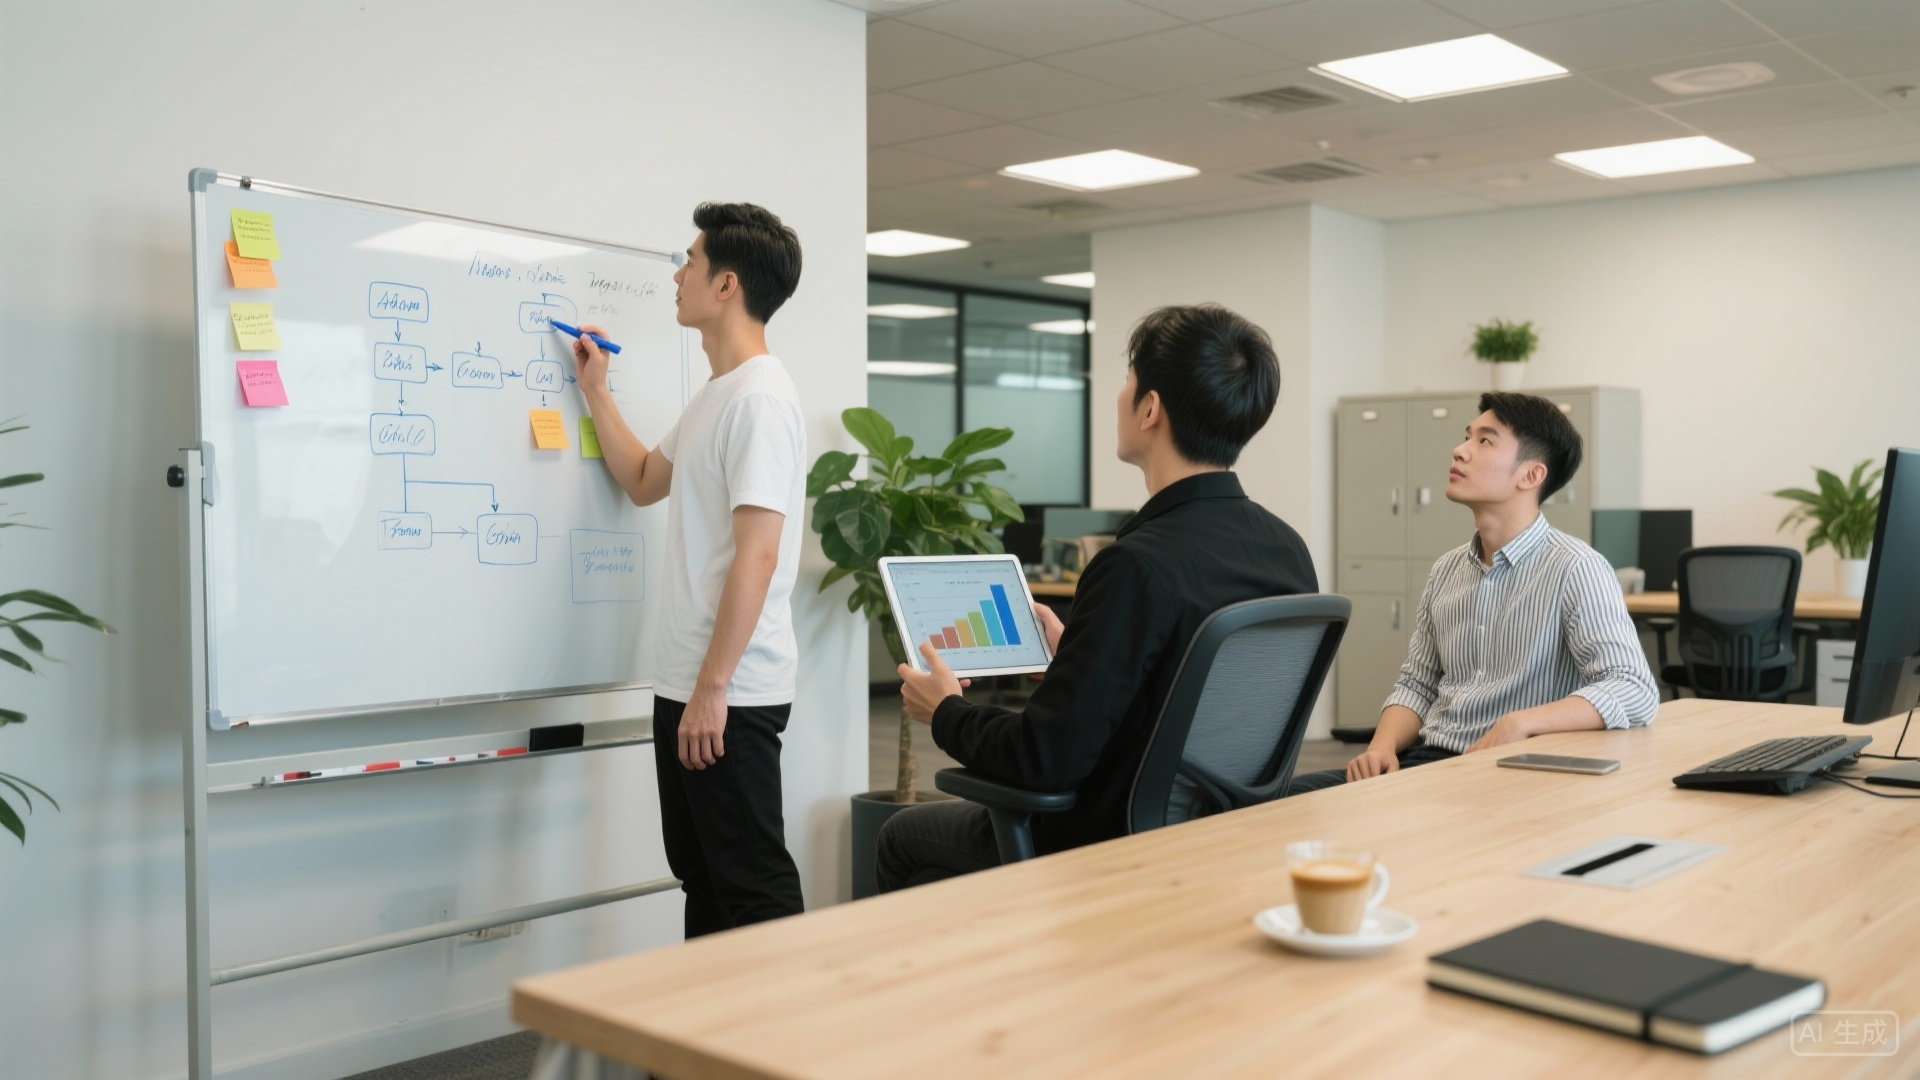
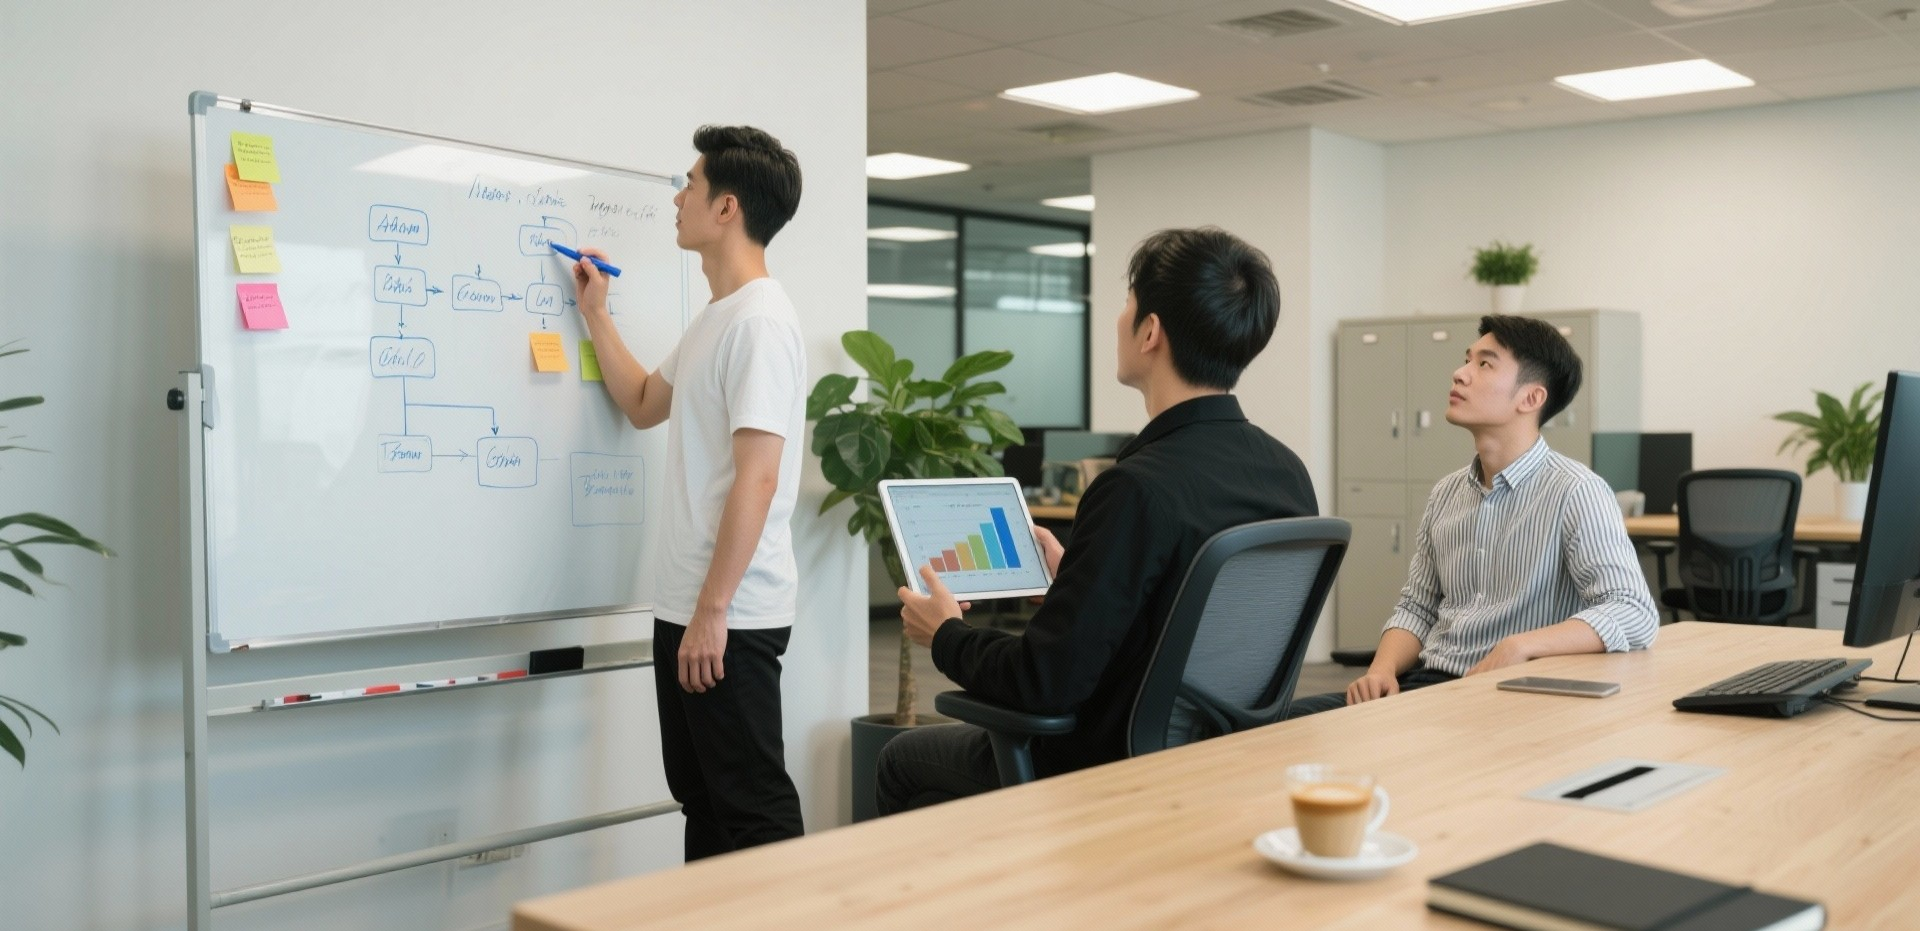
feat: 他们会回答您的问题样式

diff --git a/app/[lang]/contact/ContactCategoryCard.tsx b/app/[lang]/contact/ContactCategoryCard.tsx
@@ -1,0 +1,210 @@
+"use client";
+
+import Text from "@/app/components/Text";
+import { FaEnvelope, FaPhone, FaUser } from "react-icons/fa";
+import { HiUsers, HiCode, HiCollection, HiQuestionMarkCircle } from "react-icons/hi";
+import { HiHandRaised } from "react-icons/hi2";
+import toast from "react-hot-toast";
+
+interface ContactCategory {
+  id: string;
+  title: string;
+  description: string;
+  icon: string;
+  contact: {
+    name: string;
+    role: string;
+    email: string;
+    phone: string;
+    expertise: string[];
+  };
+}
+
+interface ContactCategoryCardProps {
+  category: ContactCategory;
+}
+
+const ContactCategoryCard: React.FC<ContactCategoryCardProps> = ({ category }) => {
+  // 图标映射 - 使用更友好的圆形背景设计
+  const getIcon = (iconName: string) => {
+    const iconSize = 18;
+    const iconElement = (() => {
+      switch (iconName) {
+        case "FaUsers":
+          return <HiUsers size={iconSize} className="text-white" />;
+        case "FaHandshake":
+          return <HiHandRaised size={iconSize} className="text-white" />;
+        case "FaCode":
+          return <HiCode size={iconSize} className="text-white" />;
+        case "FaProjectDiagram":
+          return <HiCollection size={iconSize} className="text-white" />;
+        case "FaQuestionCircle":
+          return <HiQuestionMarkCircle size={iconSize} className="text-white" />;
+        default:
+          return <HiQuestionMarkCircle size={iconSize} className="text-white" />;
+      }
+    })();
+
+    // 根据不同图标类型使用不同的背景色
+    const getBackgroundColor = () => {
+      switch (iconName) {
+        case "FaUsers":
+          return "bg-blue-500";
+        case "FaHandshake":
+          return "bg-green-500";
+        case "FaCode":
+          return "bg-purple-500";
+        case "FaProjectDiagram":
+          return "bg-orange-500";
+        case "FaQuestionCircle":
+          return "bg-indigo-500";
+        default:
+          return "bg-gray-500";
+      }
+    };
+
+    return (
+      <div className={`w-10 h-10 rounded-full ${getBackgroundColor()} flex items-center justify-center shadow-md group-hover:shadow-lg transition-all duration-300`}>
+        {iconElement}
+      </div>
+    );
+  };
+
+  const handleEmailClick = (email: string) => {
+    if (
+      /Android|webOS|iPhone|iPad|iPod|BlackBerry|IEMobile|Opera Mini/i.test(
+        navigator.userAgent
+      )
+    ) {
+      window.location.href = `mailto:${email}`;
+    } else {
+      navigator.clipboard
+        .writeText(email)
+        .then(() => {
+          toast.success(`邮箱已复制到剪贴板: ${email}`);
+        })
+        .catch((err) => {
+          toast.error("复制邮箱失败");
+        });
+    }
+  };
+
+  const handlePhoneClick = (phone: string) => {
+    if (
+      /Android|webOS|iPhone|iPad|iPod|BlackBerry|IEMobile|Opera Mini/i.test(
+        navigator.userAgent
+      )
+    ) {
+      window.location.href = `tel:${phone}`;
+    } else {
+      navigator.clipboard
+        .writeText(phone)
+        .then(() => {
+          toast.success(`电话号码已复制到剪贴板: ${phone}`);
+        })
+        .catch((err) => {
+          toast.error("复制电话号码失败");
+        });
+    }
+  };
+
+  return (
+    <div className="bg-white rounded-xl shadow-lg p-6 hover:shadow-xl transition-all duration-300 border border-gray-100 hover:border-gray-300 group">
+      {/* 类别标题部分 */}
+      <div className="flex items-start mb-4">
+        <div className="mr-3 flex-shrink-0 group-hover:scale-105 transition-transform duration-300">
+          {getIcon(category.icon)}
+        </div>
+        <div className="flex-1 min-w-0">
+          <div className="mb-1">
+            <Text bold small color="black">
+              {category.title}
+            </Text>
+          </div>
+          <div className="leading-relaxed">
+            <Text extrasmall color="gray">
+              {category.description}
+            </Text>
+          </div>
+        </div>
+      </div>
+
+      {/* 联系人信息部分 */}
+      <div className="border-t border-gray-200 pt-3">
+        <div className="flex items-start mb-3">
+          <FaUser className="text-customRed mr-2 mt-0.5 flex-shrink-0" size="14px" />
+          <div className="flex-1 min-w-0">
+            <div className="mb-0.5">
+              <Text bold extrasmall color="black">
+                {category.contact.name}
+              </Text>
+            </div>
+            <Text extrasmall color="gray">
+              {category.contact.role}
+            </Text>
+          </div>
+        </div>
+
+        {/* 联系方式 */}
+        <div className="space-y-2 mb-3">
+          <div 
+            className="flex items-center cursor-pointer hover:bg-gray-50 p-1.5 rounded-md transition-all duration-200 group/contact"
+            onClick={() => handleEmailClick(category.contact.email)}
+          >
+            <FaEnvelope className="text-customRed mr-2 flex-shrink-0 group-hover/contact:scale-110 transition-transform duration-200" size="12px" />
+            <div className="group-hover/contact:text-customRed transition-colors duration-200 truncate">
+              <Text extrasmall color="black">
+                {category.contact.email}
+              </Text>
+            </div>
+          </div>
+          <div 
+            className="flex items-center cursor-pointer hover:bg-gray-50 p-1.5 rounded-md transition-all duration-200 group/contact"
+            onClick={() => handlePhoneClick(category.contact.phone)}
+          >
+            <FaPhone className="text-customRed mr-2 flex-shrink-0 group-hover/contact:scale-110 transition-transform duration-200" size="12px" />
+            <div className="group-hover/contact:text-customRed transition-colors duration-200">
+              <Text extrasmall color="black">
+                {category.contact.phone}
+              </Text>
+            </div>
+          </div>
+        </div>
+
+        {/* 专业领域 */}
+        <div>
+          <div className="mb-2">
+            <Text extrasmall bold color="black">
+              专业领域：
+            </Text>
+          </div>
+          <div className="flex flex-wrap gap-1.5">
+            {category.contact.expertise.map((skill, index) => {
+              // 为每个技能标签分配不同的颜色
+              const colors = [
+                'bg-blue-100 text-blue-700 hover:bg-blue-500 hover:text-white',
+                'bg-green-100 text-green-700 hover:bg-green-500 hover:text-white',
+                'bg-purple-100 text-purple-700 hover:bg-purple-500 hover:text-white',
+                'bg-orange-100 text-orange-700 hover:bg-orange-500 hover:text-white',
+                'bg-pink-100 text-pink-700 hover:bg-pink-500 hover:text-white',
+                'bg-indigo-100 text-indigo-700 hover:bg-indigo-500 hover:text-white'
+              ];
+              const colorClass = colors[index % colors.length];
+              
+              return (
+                <span 
+                  key={index}
+                  className={`${colorClass} px-2 py-0.5 rounded-full text-xs font-medium transition-all duration-300 cursor-default shadow-sm hover:shadow-md`}
+                >
+                  {skill}
+                </span>
+              );
+            })}
+          </div>
+        </div>
+      </div>
+    </div>
+  );
+};
+
+export default ContactCategoryCard;

diff --git a/app/[lang]/contact/page.tsx b/app/[lang]/contact/page.tsx
@@ -6,6 +6,7 @@ import { getDictionary } from "../dictionaries";
 import UserCard from "../team/[teamId]/UserCard";
 import { sortRoles } from "../team/[teamId]/utils";
 import { EmailAction, Admin } from "./emailAction";
+import ContactCategoryCard from "./ContactCategoryCard";
 import GoogleMapComponent from "./map";
 import { FaWeixin, FaWeibo, FaLinkedin, FaGithub, FaPhone, FaEnvelope, FaClock, FaMapMarkerAlt } from "react-icons/fa";
 import { SiBilibili } from "react-icons/si";
@@ -69,11 +70,7 @@ const ContactUs: React.FC<ContactUsProps> = async ({ params }) => {
     "joanna popielewska",
   ]);
 
-  const projectSupervisors = await getMembersData([
-    "dr hab. inż. Anna Janicka",
-    "dr hab. inż. Damian Derlukiewicz",
-    "dr inż. Gustaw Sierzputowski",
-  ]);
+
 
   const siteAdministration = await getMembersData([
     "dawid chmal",
@@ -81,7 +78,7 @@ const ContactUs: React.FC<ContactUsProps> = async ({ params }) => {
   ]);
 
   const roleHistory: RoleHistory = {};
-  [...mainMembers, ...projectSupervisors, ...siteAdministration].forEach(
+  [...mainMembers, ...siteAdministration].forEach(
     (member) => {
       const memberFullName = `${member.name} ${member.surname}`;
       roleHistory[memberFullName] = sortRoles(
@@ -111,23 +108,16 @@ const ContactUs: React.FC<ContactUsProps> = async ({ params }) => {
               {dict.contactUs.theyWillAnswer}
             </Text>
           </div>
-          <div className="grid grid-cols-1 xl:grid-cols-4 sm:grid-cols-2 w-full gap-6">
-            {mainMembers.map((member, index) => (
-              <div key={index} className="flex flex-col gap-6 ">
-                <UserCard
-                  member={member}
-                  teamId="智能陪护"
-                  roleHistory={roleHistory}
-                />
-                <EmailAction
-                  email={member.email || "pawel.wojcik.pwrrt@gmail.com"}
-                />
-                <EmailAction
-                  email={member.phoneNumber || "pawel.wojcik.pwrrt@gmail.com"}
-                />
-              </div>
+          
+          {/* 按问题类型分类的联系人展示 */}
+          <div className="grid grid-cols-1 lg:grid-cols-2 2xl:grid-cols-3 w-full gap-8">
+            {dict.contactUs.questionCategories.map((category: any, index: number) => (
+              <ContactCategoryCard key={category.id} category={category} />
             ))}
           </div>
+          
+          {/* 添加分隔线 */}
+          <div className="w-full border-t border-gray-200 mt-12"></div>
         </div>
       </Container>
       <div className="text-center mt-4 md:mt-12 mb-6">
@@ -138,22 +128,6 @@ const ContactUs: React.FC<ContactUsProps> = async ({ params }) => {
       <GoogleMapComponent />
       <Container>
         <div className="grid grid-cols-1 w-full my-8 md:my-12 gap-12 md:gap-20">
-          <div className="flex flex-col items-start md:items-center gap-4 md:gap-6">
-            <Text bold medium>
-              {dict.contactUs.projectSupervisors}
-            </Text>
-            <div className="grid grid-cols-1 md:grid-cols-3 w-full md:w-3/4 gap-6">
-              {projectSupervisors.map((member, index) => (
-                <UserCard
-                  key={index}
-                  opiekun={true}
-                  member={member}
-                  teamId="智能陪护"
-                  roleHistory={roleHistory}
-                />
-              ))}
-            </div>
-          </div>
           <div className="flex flex-col items-start md:items-center gap-4 md:gap-6">
             <Admin text={dict.contactUs.siteAdministration} />
             <div className="grid grid-cols-1 md:grid-cols-2 w-full md:w-1/2 gap-6">

diff --git a/app/[lang]/layout.tsx b/app/[lang]/layout.tsx
@@ -48,7 +48,7 @@ const syncopate = localFont({
 export const metadata: Metadata = {
   title: "源境团队",
   description:
-    "河南师范大学源境软件工作室，专注于软件开发与技术创新",
+    "源境软件工作室，专注于软件开发与技术创新",
 };
 
 interface RootLayoutProps {
